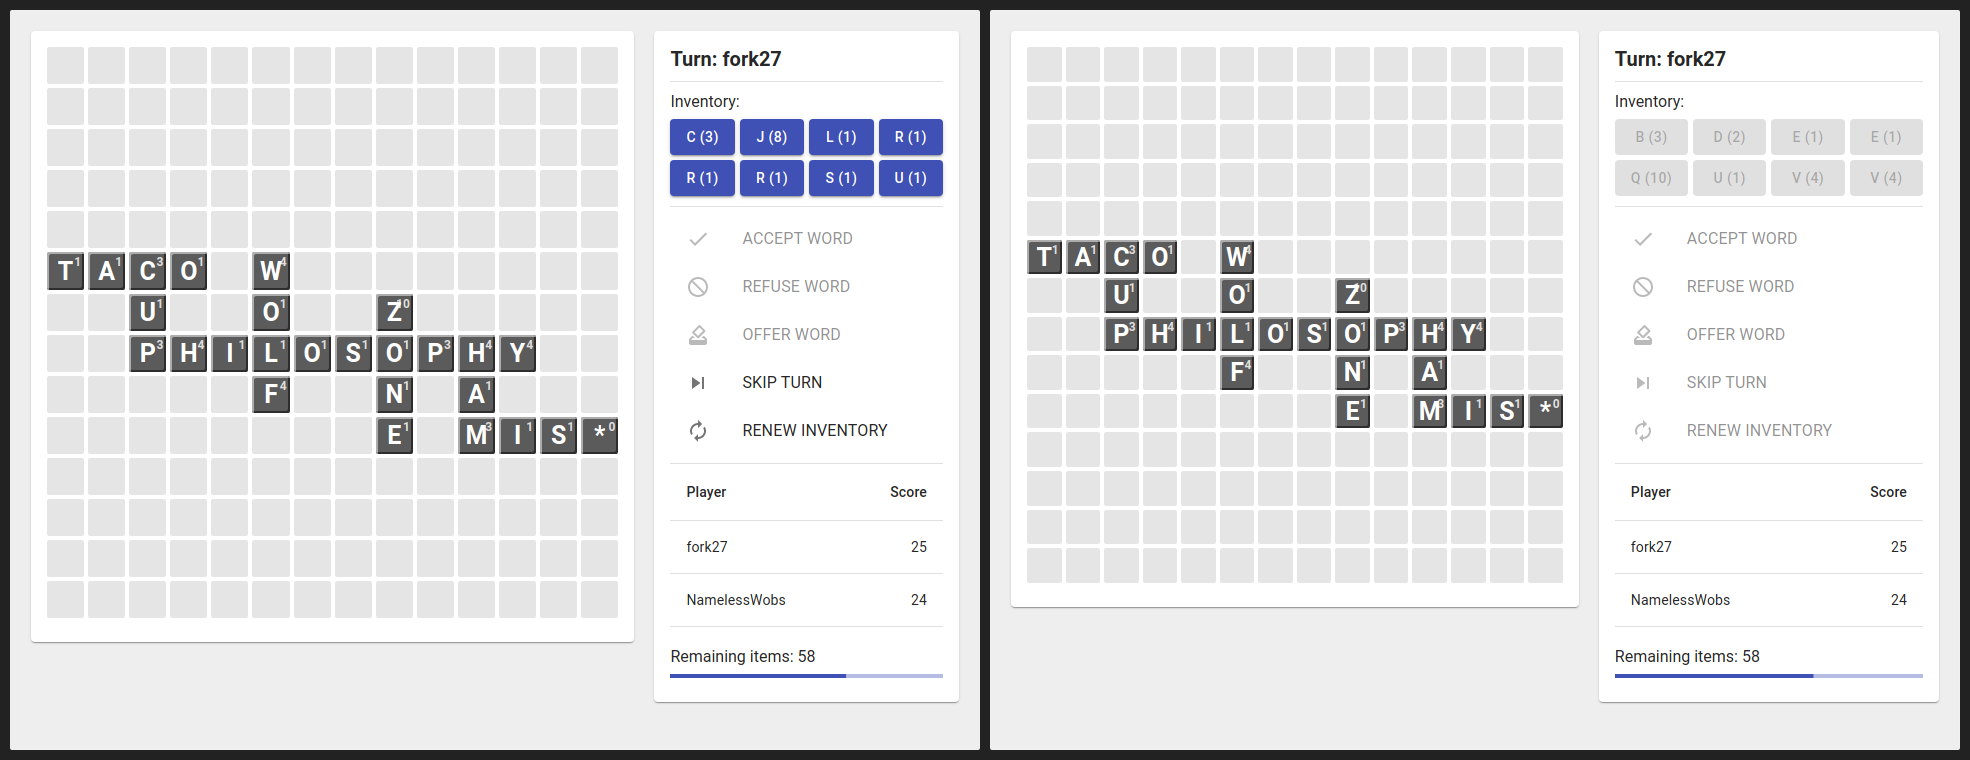
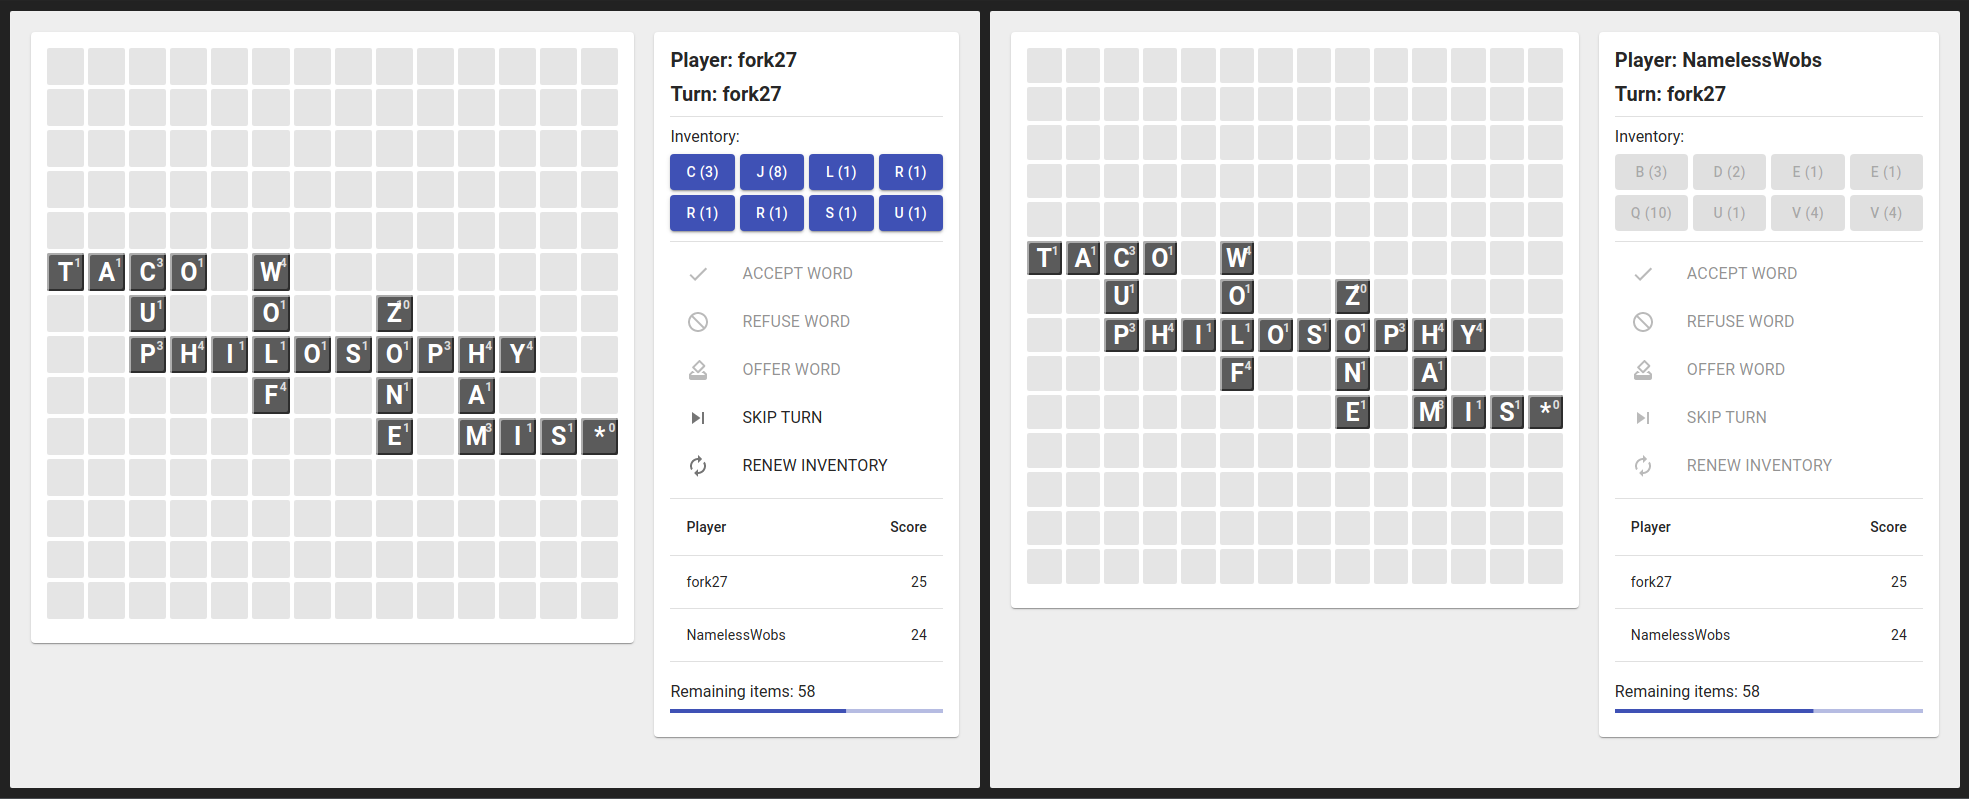
Player name is back!

diff --git a/src/components/GameUI.jsx b/src/components/GameUI.jsx
@@ -81,6 +81,9 @@ const GameUI = (props) => {
     return <Card>
         <CardContent>
             <div className={classes.title}>
+                Player: {props.player}
+            </div>
+            <div className={classes.title}>
                 Turn: {props.turn}
             </div>
             <Divider/>

diff --git a/README.md b/README.md
@@ -9,7 +9,7 @@ Call `npm start` to run it on localhost
 
 ## Todo:
 
-[ ] Serverside nodejs stuff to play online from multiple devices
+- [ ] Serverside nodejs stuff to play online from multiple devices
 
 ## Wontfix:
-[ ] Bonus fields that add score or multiply letter score. I strongly condemn this vicious practise, that results run-the-maze-to-achieve-x3-multiplier-game instead of building long sofisticated words
+- Bonus fields that add score or multiply letter score. I strongly condemn this vicious practise, that results run-the-maze-to-achieve-x3-multiplier-game instead of building long sofisticated words
